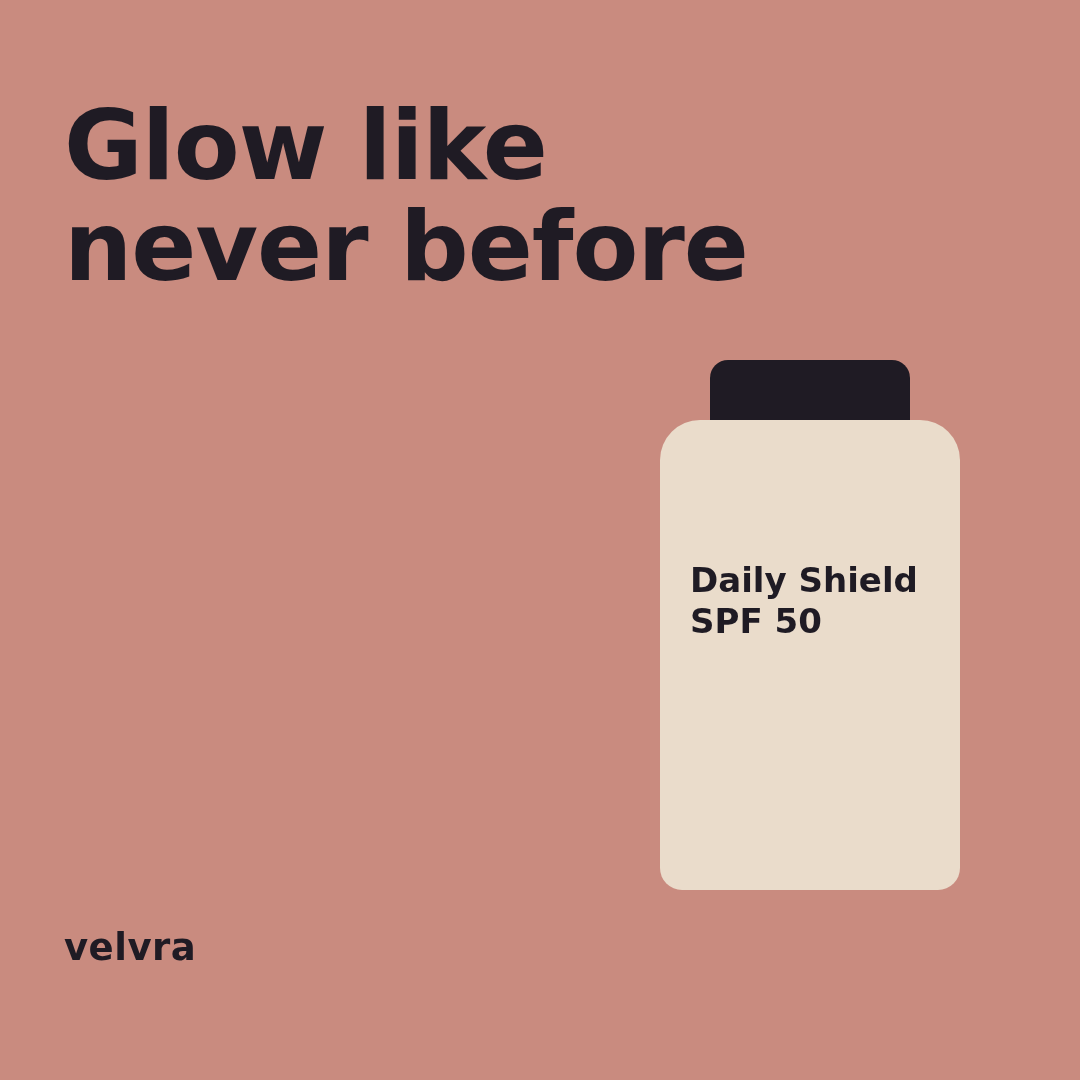
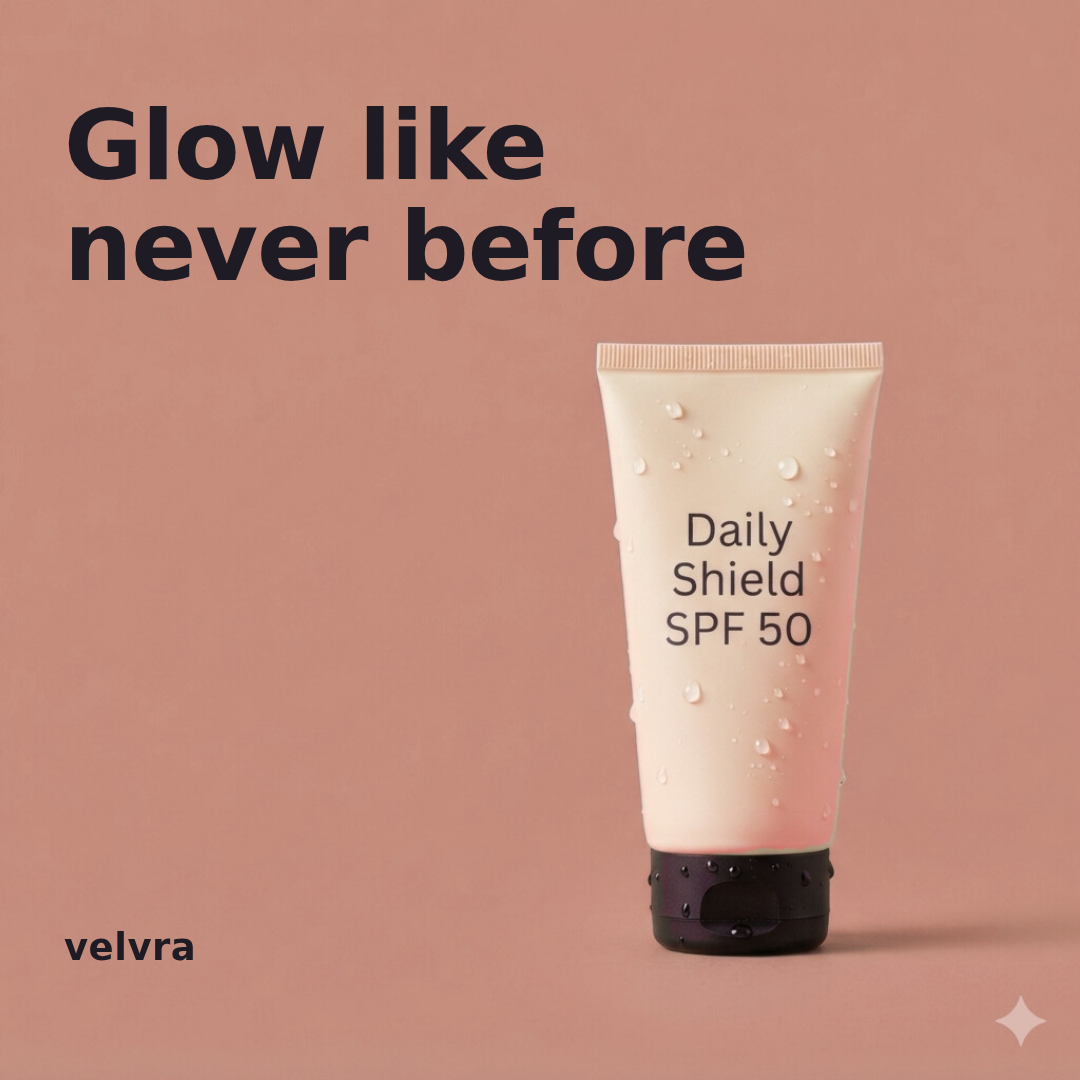
Use an AI-generated product photo in the sample creative

Changed region(s): [[0.55, 0.3056, 0.9472, 0.8861], [0.9167, 0.9167, 0.9778, 0.9778]]

diff --git a/src/components/Landing.tsx b/src/components/Landing.tsx
@@ -29,7 +29,7 @@ const CHECKS: [string, string, string][] = [
   ["Terminology", "TERM-05", "“Whitening” is banned and becomes “even tone”, with the brand book page cited."],
   ["Messaging", "MSG-02", "“Erase dark spots in 7 days” promises instant results the product can't make."],
   ["Claims", "CLAIM-01", "“25% off” is checked against fact F-107 (20%, valid to 20 Nov). Numbers, periods and dates are compared in code."],
-  ["Visual", "VIS-01", "A #FF5FA2 background is ΔE 21 from Rose Clay, the nearest brand colour."],
+  ["Visual", "VIS-01", "A #F86598 background is ΔE 18 from Rose Clay, the nearest brand colour."],
   ["Accessibility", "A11Y-01", "A headline at 1.7:1 contrast fails WCAG AA. Assay reads the creative with OCR in your browser."],
 ];
 
@@ -236,14 +236,14 @@ export function Landing() {
               <figure data-reveal style={{ ["--i" as string]: 4 }} className="mt-10 max-w-[400px] overflow-hidden rounded-[24px]">
                 {/* eslint-disable-next-line @next/next/no-img-element -- static sample creative */}
                 <img
-                  src="/samples/velvra-monsoon-creative.png"
+                  src="/samples/velvra-monsoon-creative.webp"
                   width={1080}
                   height={1080}
-                  alt="The sample Instagram creative: a hot-pink square with a faint pink headline, “Glow like never before”, a cream sunscreen tube and a small velvra logo."
+                  alt="The sample Instagram creative: a photo of a cream Daily Shield SPF 50 tube beaded with raindrops on a hot-pink backdrop, a faint pink headline, “Glow like never before”, and a small velvra logo."
                   className="drift block"
                 />
               </figure>
-              <p className="mt-2 max-w-[400px] text-[14px] text-muted">The sample creative. Assay finds its 1.7:1 headline, its off-palette pink, its 96 px logo and its missing alt text.</p>
+              <p className="mt-2 max-w-[400px] text-[14px] text-muted">The sample creative, made on an AI-generated product photo. Assay finds its 1.7:1 headline, its off-palette pink, its 96 px logo and its missing alt text.</p>
             </div>
             <div data-reveal style={{ ["--i" as string]: 2 }}>
               <LiveChecker />

diff --git a/src/engine/visual.test.ts b/src/engine/visual.test.ts
@@ -30,7 +30,7 @@ describe("visual checks on the sample creative", () => {
         dataUrl: await dataUrl("/samples/velvra-monsoon-creative-fixed.png"),
         width: 1080,
         height: 1080,
-        alt: "A cream Daily Shield SPF 50 tube on a rose-clay background under the headline Glow like never before.",
+        alt: "A photo of a cream Daily Shield SPF 50 tube beaded with raindrops on a rose-clay backdrop, under the headline Glow like never before.",
         fileName: "creative-fixed.png",
         logoBox: { x: 64, y: 926, w: 134, h: 44 },
       },

diff --git a/scripts/make_samples.py b/scripts/make_samples.py
@@ -1,13 +1,20 @@
 #!/usr/bin/env python3
 """Generates the demo files in public/samples from the fictional Velvra content.
 
-- velvra-monsoon-creative.png  Instagram creative (#FF5FA2 ground, a low-contrast headline, a 96 px logo)
+- velvra-monsoon-creative.png  Instagram creative (hot-pink photo, a low-contrast headline, a 96 px logo)
+- velvra-monsoon-creative-fixed.png  the same creative corrected (rose-clay photo, dark headline, 134 px logo)
 - velvra-product-page.docx     product page copy, as a minimal Word file
 - velvra-brochure.pdf          two-page brochure with a real text layer
 - velvra-brand-book-update.pdf brand-book pages for the "import" demo
 
 Run: python3 scripts/make_samples.py   (needs Chromium at $CHROMIUM or /usr/bin/chromium)
 The text matches src/seed/samples.ts.
+
+The product photo (scripts/assets/velvra-tube-photo.jpg) was generated with Google's Gemini image model
+(Nano Banana); Velvra and its tube are fictional. The rose-clay version recolours only the pink backdrop:
+  magick velvra-tube-photo.jpg -modulate 92,42,119 recol.png
+  magick velvra-tube-photo.jpg -fx "(hue>0.82 || hue<0.01) && saturation>0.25 ? 1 : 0" -blur 0x1 mask.png
+  magick velvra-tube-photo.jpg recol.png mask.png -composite -quality 90 velvra-tube-photo-rose-clay.jpg
 """
 import html
 import os
@@ -50,26 +57,26 @@ def paragraphs(text):
 
 
 # 1. The Instagram creative --------------------------------------------------
+ASSETS = os.path.join(ROOT, "scripts", "assets")
 CREATIVE = """<!doctype html><meta charset='utf-8'><style>
 html,body{margin:0;width:1080px;height:1080px;overflow:hidden}
-body{background:#FF5FA2;font-family:'DejaVu Sans',Arial,sans-serif;position:relative}
+body{background:#FF5FA2 url('file://PHOTO') center/cover no-repeat;font-family:'DejaVu Sans',Arial,sans-serif;position:relative}
 .headline{position:absolute;left:64px;top:96px;width:900px;font-size:96px;line-height:1.05;font-weight:700;color:#FFB4D2;letter-spacing:-1px}
-.tube{position:absolute;right:120px;top:420px;width:300px;height:470px;background:#EADCCB;border-radius:40px 40px 22px 22px}
-.cap{position:absolute;right:170px;top:360px;width:200px;height:80px;background:#1F1B24;border-radius:18px 18px 6px 6px}
-.label{position:absolute;right:150px;top:560px;width:240px;font-size:34px;font-weight:700;color:#1F1B24;line-height:1.2}
 .logo{position:absolute;left:64px;top:940px;width:96px;height:34px;font-size:27px;font-weight:700;color:#1F1B24;letter-spacing:0.5px}
 </style>
 <div class='headline'>Glow like<br>never before</div>
-<div class='cap'></div><div class='tube'></div>
-<div class='label'>Daily Shield<br>SPF 50</div>
 <div class='logo'>velvra</div>"""
 
 with tempfile.TemporaryDirectory() as tmp:
     src = os.path.join(tmp, "creative.html")
     with open(src, "w") as f:
-        f.write(CREATIVE)
+        f.write(CREATIVE.replace("PHOTO", os.path.join(ASSETS, "velvra-tube-photo.jpg")))
     chromium(["--window-size=1080,1080", "--force-device-scale-factor=1", f"--screenshot={os.path.join(OUT, 'velvra-monsoon-creative.png')}",
               "file://" + src])
+
+# The landing page shows a light WebP copy; the PNG stays the file that gets checked.
+subprocess.run(["magick", os.path.join(OUT, "velvra-monsoon-creative.png"), "-resize", "800x800", "-quality", "82",
+                os.path.join(OUT, "velvra-monsoon-creative.webp")], check=True)
 
 # 1b. The corrected creative: on palette, readable headline, logo at full size.
 FIXED = (CREATIVE.replace("background:#FF5FA2", "background:#C98B7F")
@@ -78,7 +85,7 @@ FIXED = (CREATIVE.replace("background:#FF5FA2", "background:#C98B7F")
 with tempfile.TemporaryDirectory() as tmp:
     src = os.path.join(tmp, "creative-fixed.html")
     with open(src, "w") as f:
-        f.write(FIXED)
+        f.write(FIXED.replace("PHOTO", os.path.join(ASSETS, "velvra-tube-photo-rose-clay.jpg")))
     chromium(["--window-size=1080,1080", "--force-device-scale-factor=1", f"--screenshot={os.path.join(OUT, 'velvra-monsoon-creative-fixed.png')}",
               "file://" + src])
 

diff --git a/docs/BUILD_LOG.md b/docs/BUILD_LOG.md
@@ -16,3 +16,4 @@ Nothing in this repository was written before the window opened. Times below are
 | 26 Oct 17:57 | README, `docs/ARCHITECTURE.md` (decisions and changes from the Round 1 plan) and `docs/EVALUATION.md` (golden set, unit, E2E and axe results, scripted timings, the AI-assisted review, and a plain statement that no real users have tested it yet). Removed the unused Gemini SDK; the app calls Gemini over REST. |
 | 26 Oct 18:14 | Tested the server AI path end to end against a local mock of Gemini's REST API (key rotation on 429, model fallback on 404, redaction, offset mapping, the full judge path with no stubs); added `-latest` model aliases as a last fallback; a corrected sample creative that clears every visual finding; polish from a screenshot review. Drafted the Round 2 report outside the repo. |
 | 26 Oct 18:34 | Fixed a race in workspace seeding: the rulebook's SHA-256 (Web Crypto) was awaited inside the IndexedDB transaction, which can commit early (reproduced as `TransactionInactiveError`); it is now computed before the transaction, with seeding tests. The E2E suite takes its port from `E2E_PORT` and never reuses a server it did not start. Unit 68/68, eval unchanged, E2E 17/17 on a fresh build. |
+| 26 Oct 23:10 | Replaced the drawn sample creative with a product photo generated with Google's Gemini image model (Nano Banana): a cream Daily Shield tube with raindrops on hot pink. The corrected creative recolours only the backdrop to Rose Clay, so the product is identical in both. The headline and logo are still set in code so the defects stay exact: OCR still reads the headline at 1.7:1, the pink is now ΔE 18 from Rose Clay (was 21). The landing page shows a 14 KB WebP copy. Unit 68/68, eval unchanged, E2E 17/17. |

diff --git a/README.md b/README.md
@@ -60,6 +60,7 @@ More detail, including the decisions and how they changed from the Round 1 plan,
 
 - **Runtime:** Google Gemini (free tier) through `src/server/ai`. Default models `gemini-3.8-flash` then `gemini-3.6-flash` for judgment, `gemini-3.5-flash-lite` then `gemini-3.1-flash-lite` for lighter tasks; override with `GEMINI_MODEL` and `GEMINI_MODEL_LITE`. Google's terms for unpaid services allow Google to use inputs and outputs to improve its products, and human reviewers may read them. Assay redacts emails, phone numbers, ID and card numbers and secrets in the browser and again on the server, and **Confidential mode** sends nothing.
 - **Without a key** the app runs in rule-checks-only mode and says so on every check.
+- **Sample photo:** the product photo in the sample creative was generated with Google's Gemini image model (Nano Banana). Velvra and its tube are fictional.
 - **AI assistance:** Built with AI coding assistance. Google Gemini runs inside the app.
 
 ## Running it locally
